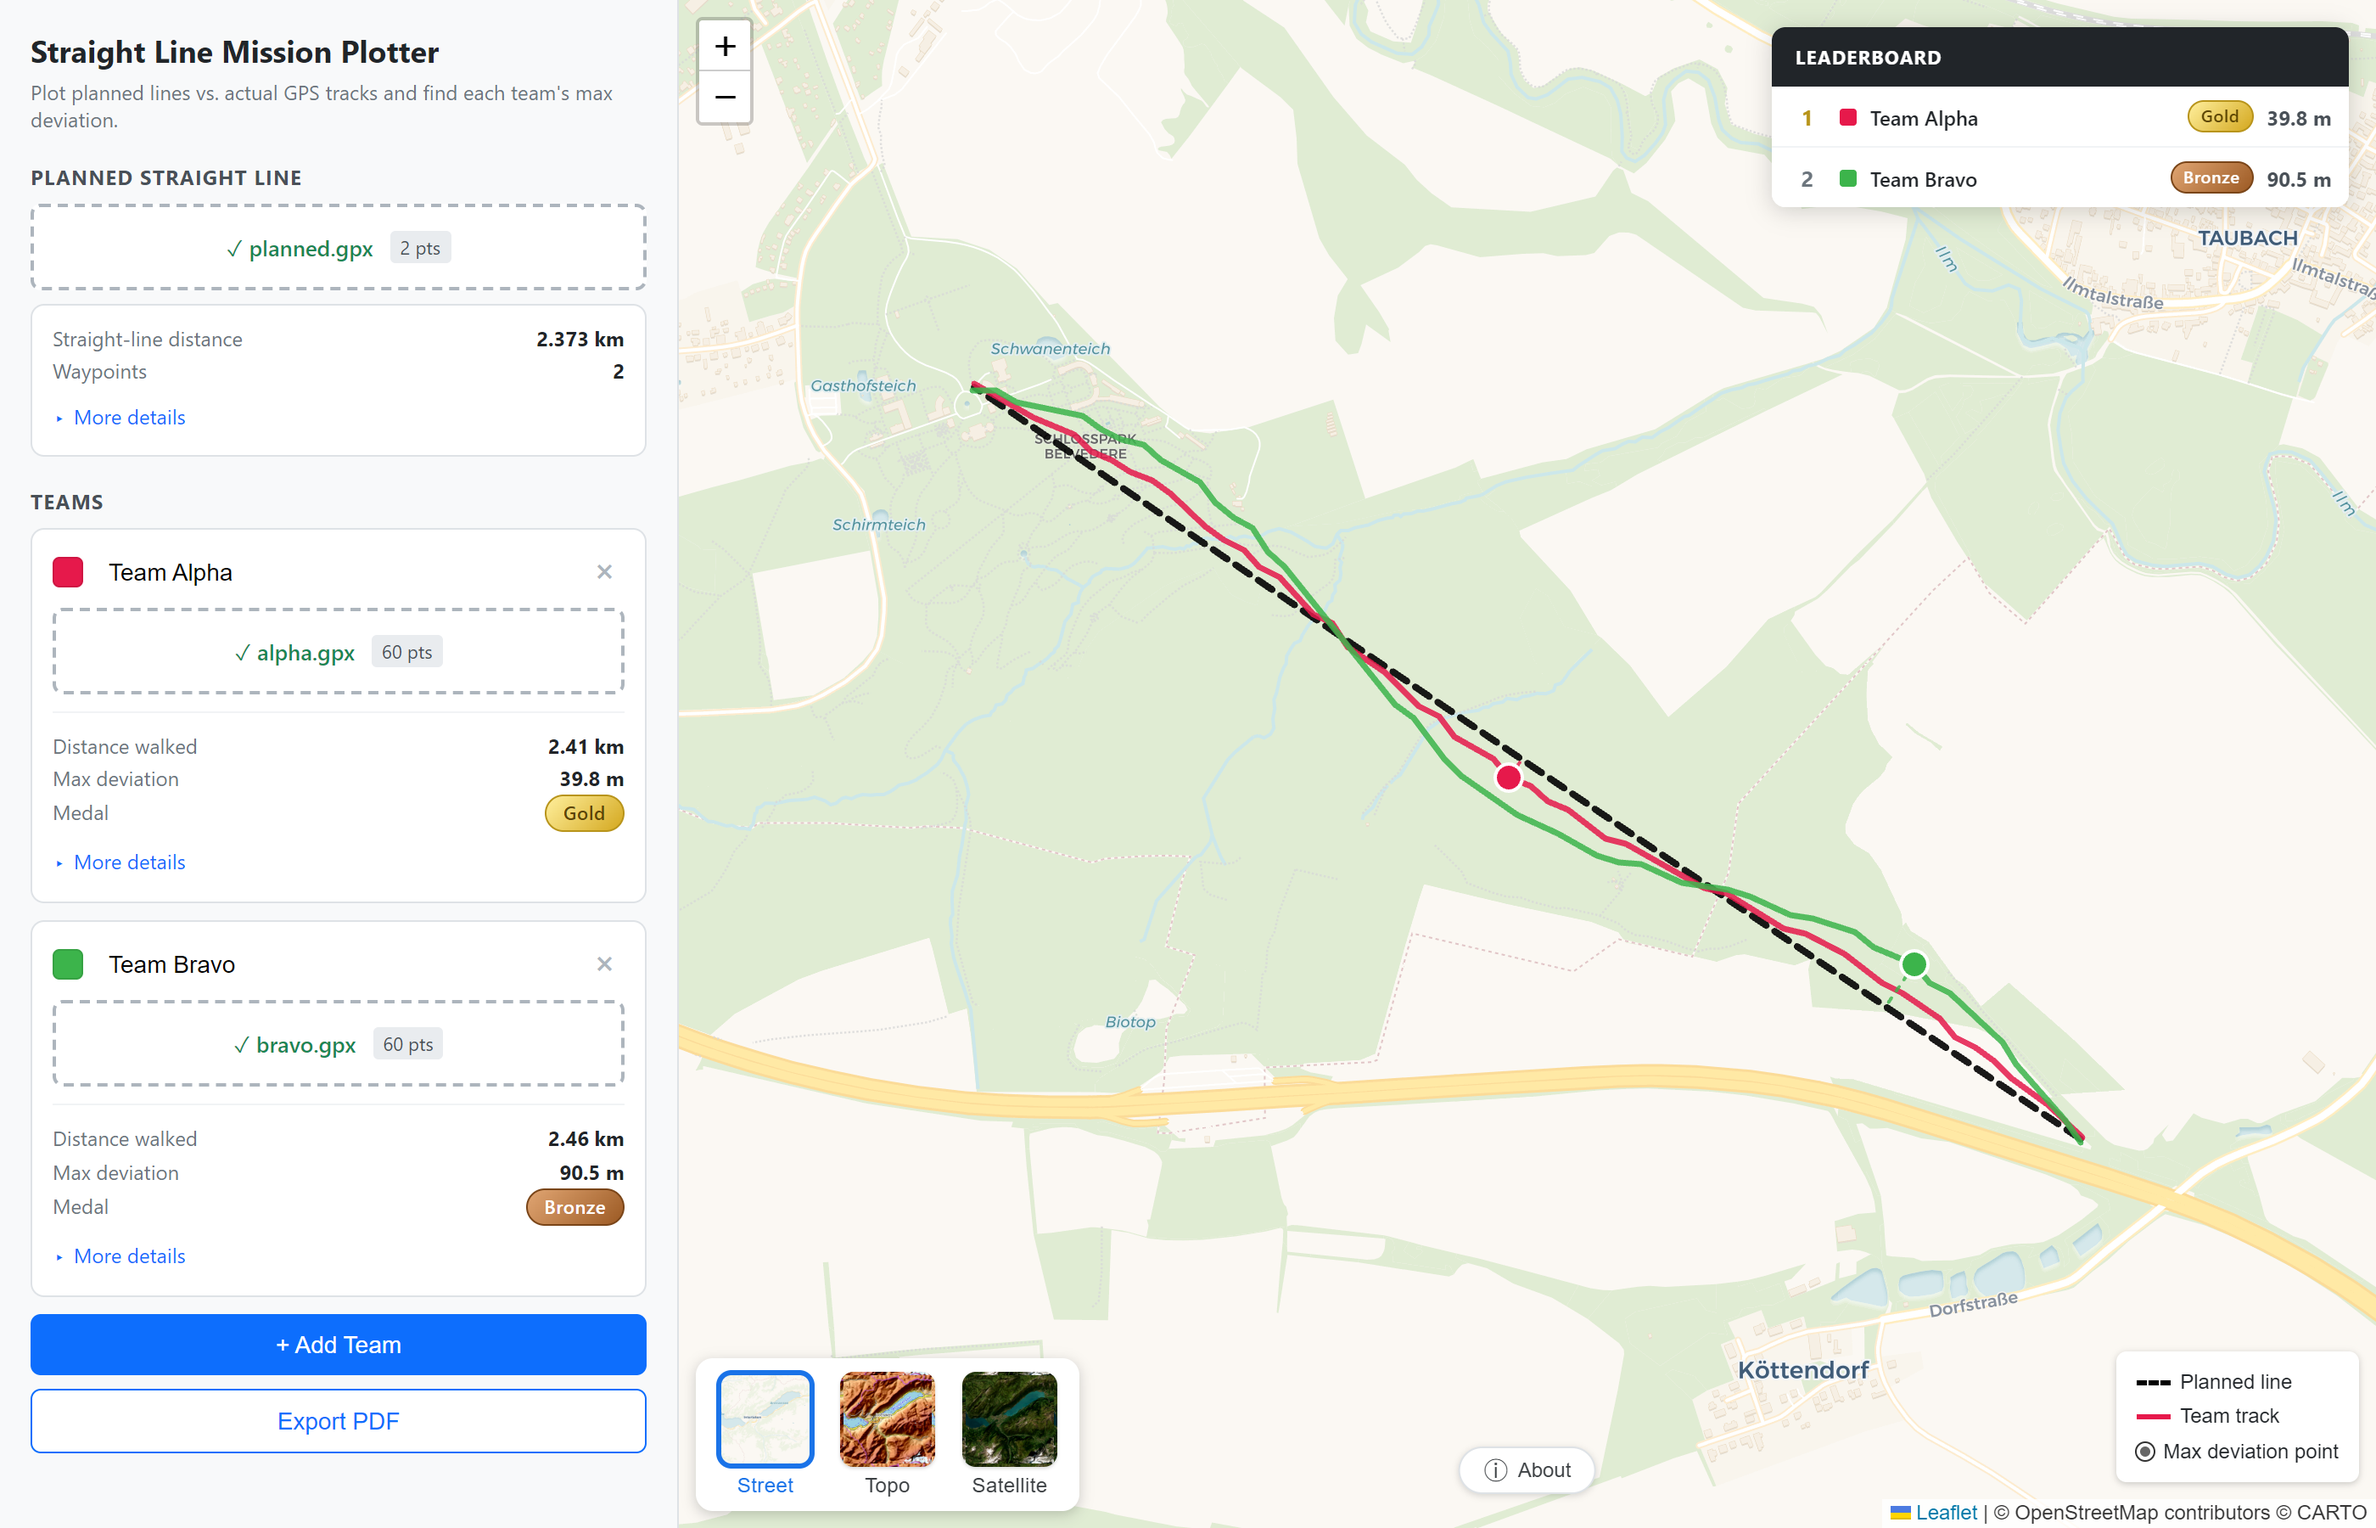
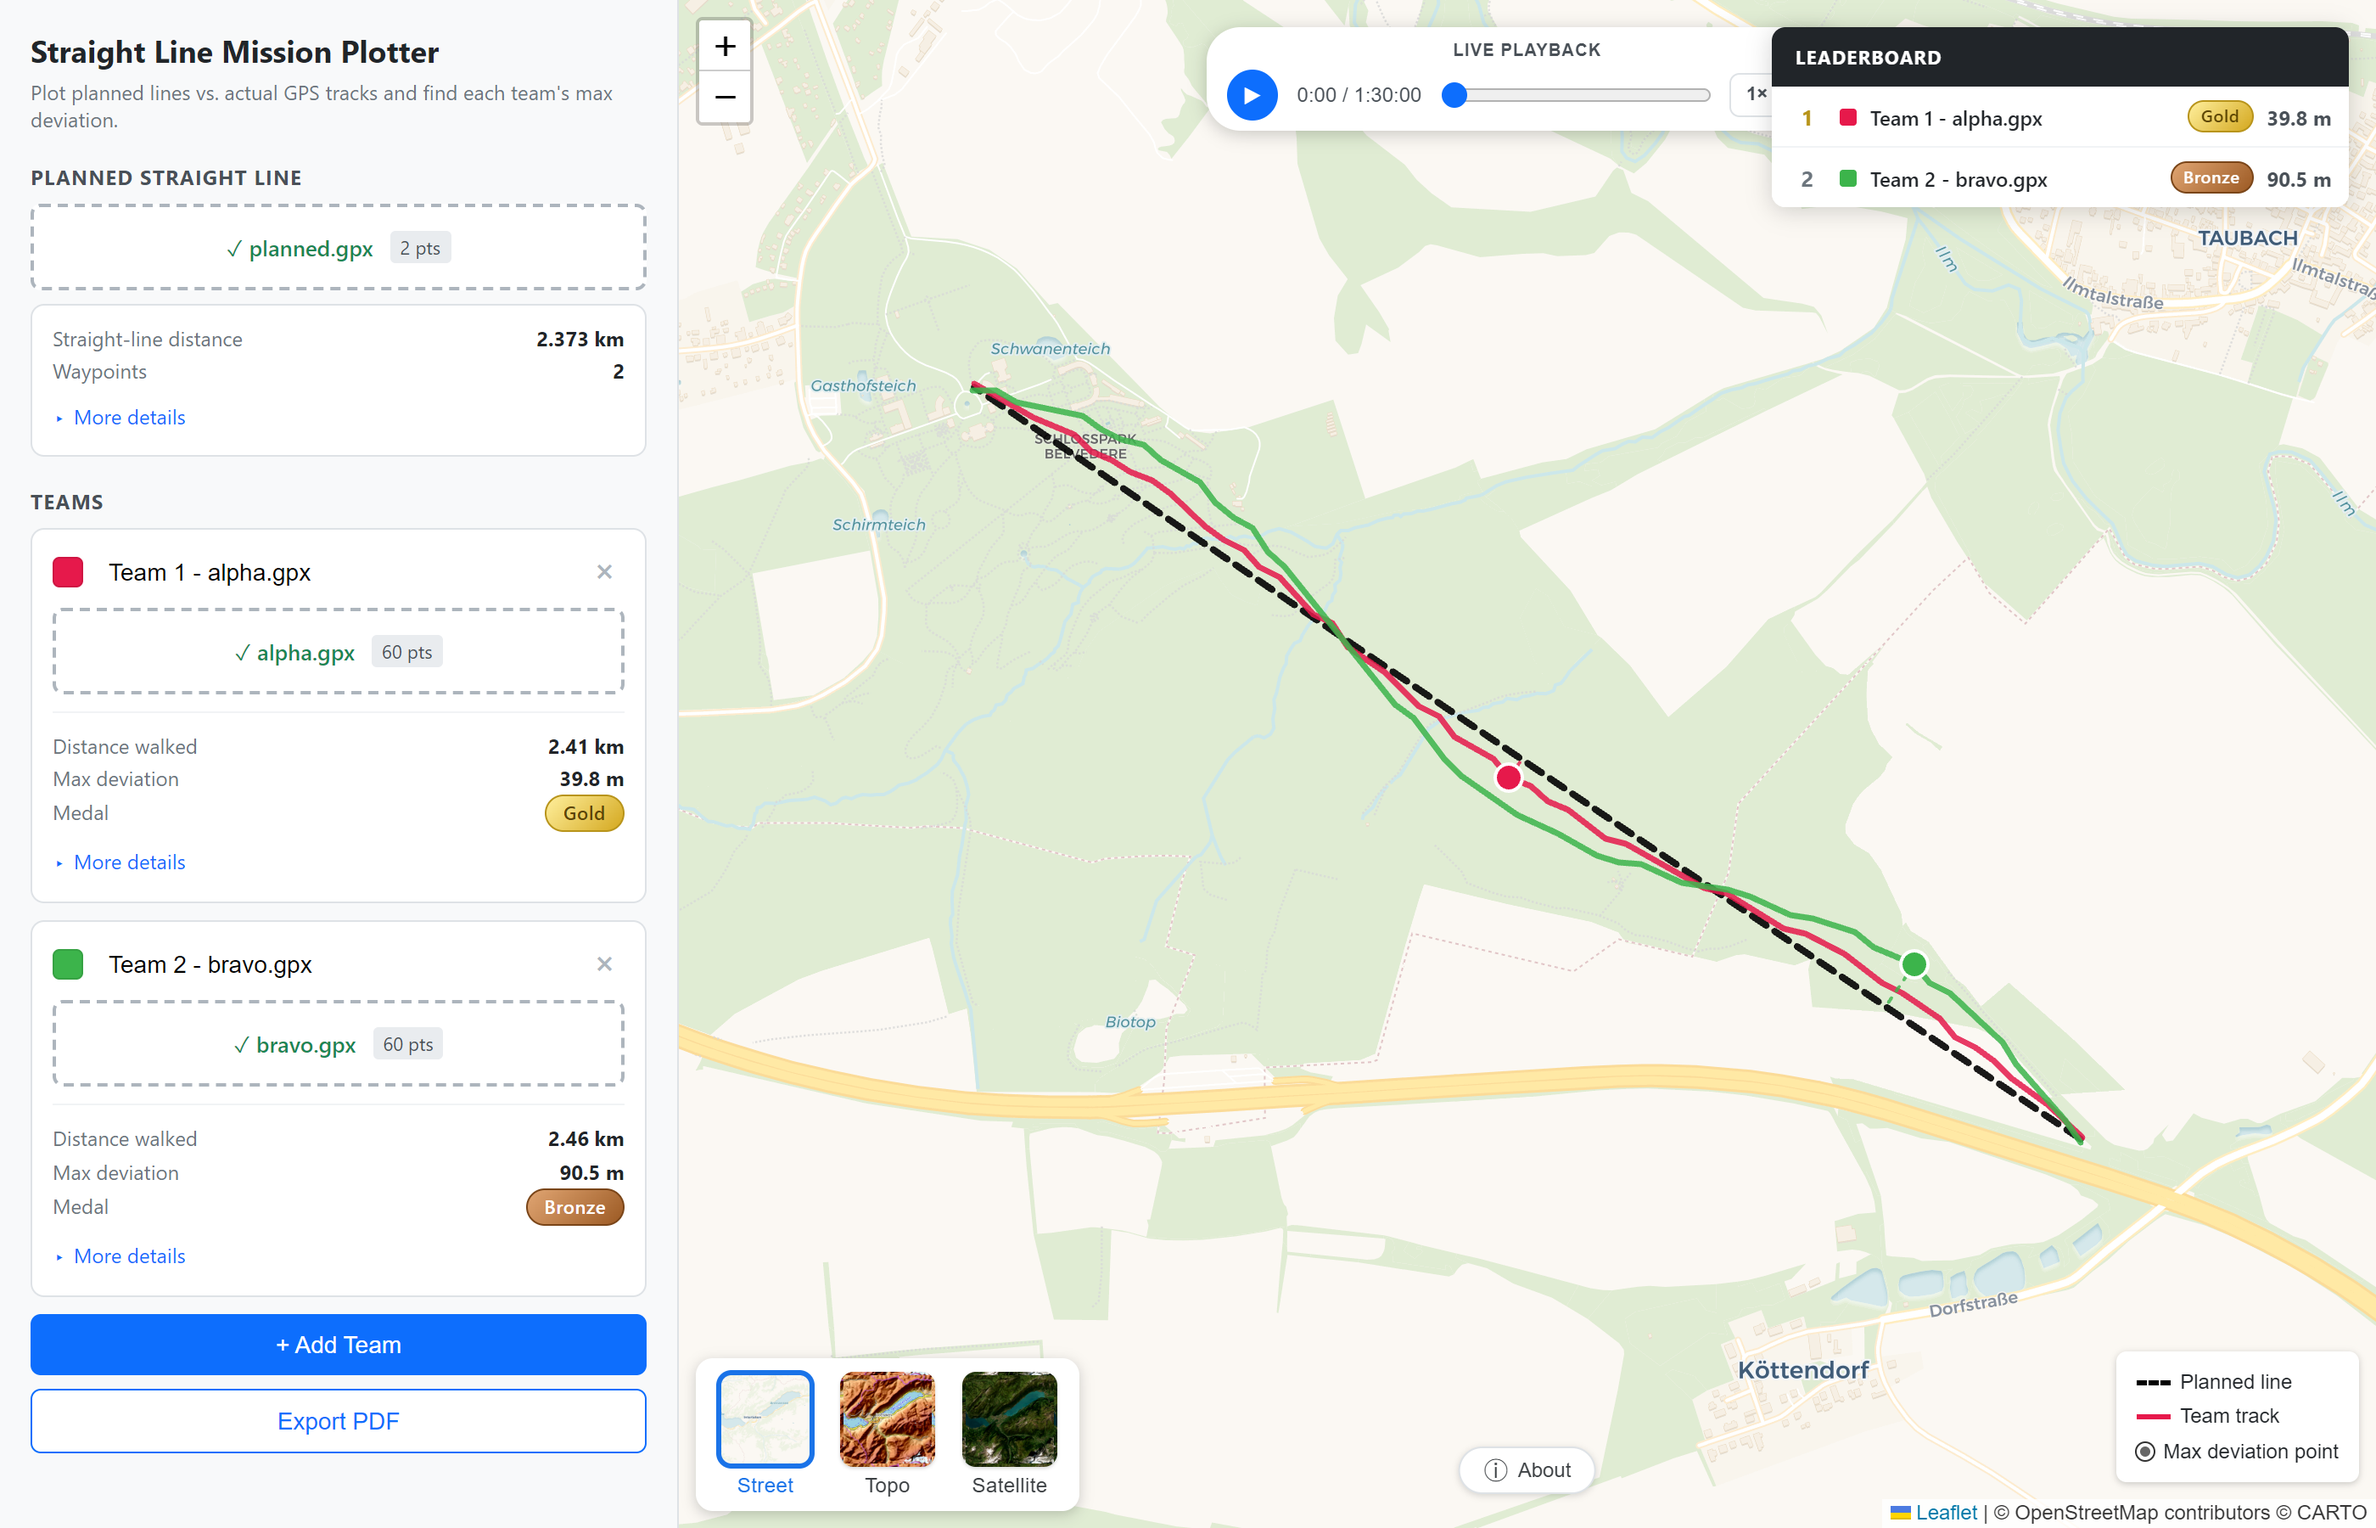
Document Live Playback in README and refresh screenshot

diff --git a/README.md b/README.md
@@ -21,6 +21,7 @@ Drop in the planned line and each team's GPS track; the app overlays everything 
 - **Live leaderboard** (top-right of the map) that ranks teams by max deviation
 - **Elevation profiles** (sparklines) plus ascent / descent / min–max from `<ele>` tags or FIT altitude records
 - **Basemap switcher** with thumbnails — Street (CartoDB Voyager), Topo (OpenTopoMap with contour lines / Isohypsen), and Satellite (Esri World Imagery)
+- **Live playback** — animate every team's GPS marker along its track at 1× / 5× / 10× / 20× / 50× / 100× speed, normalised to each team's own start so runs from different days can be compared side-by-side
 - **PDF export** — one A4 portrait page per team with name, rank, medal, full stats, a map snapshot (planned line + team track + max-deviation marker), and the elevation profile
 - Accurate geometry (local 2D projection pipeline + Douglas–Peucker simplification + spatial grid index), with a Web Worker so stats computation doesn't block the UI
 
@@ -30,7 +31,8 @@ Drop in the planned line and each team's GPS track; the app overlays everything 
 2. Drop the planned-line GPX into the **Planned Straight Line** slot.
 3. Add a team, name it, and drop in the team's `.gpx` or `.fit` recording. Repeat for each team.
 4. The map, leaderboard, and per-team stats update live.
-5. Click **Export PDF** to generate a per-team report. The app spins up a fresh map for each team, waits for tiles to load, then opens the browser's print dialog — pick **Save as PDF** as the destination to get one A4 page per team.
+5. If your team tracks carry timestamps, a **Live Playback** bar appears at the top of the map — press play to animate every team along its track at your chosen speed.
+6. Click **Export PDF** to generate a per-team report. The app spins up a fresh map for each team, waits for tiles to load, then opens the browser's print dialog — pick **Save as PDF** as the destination to get one A4 page per team.
 
 ## File formats
 
